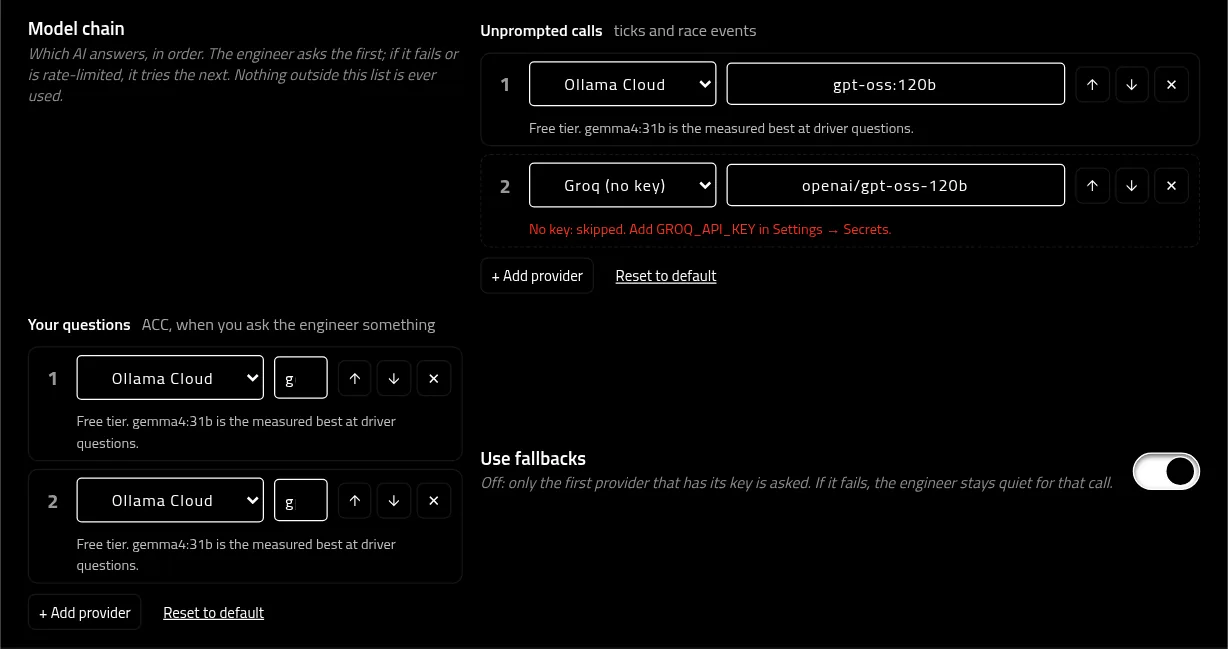
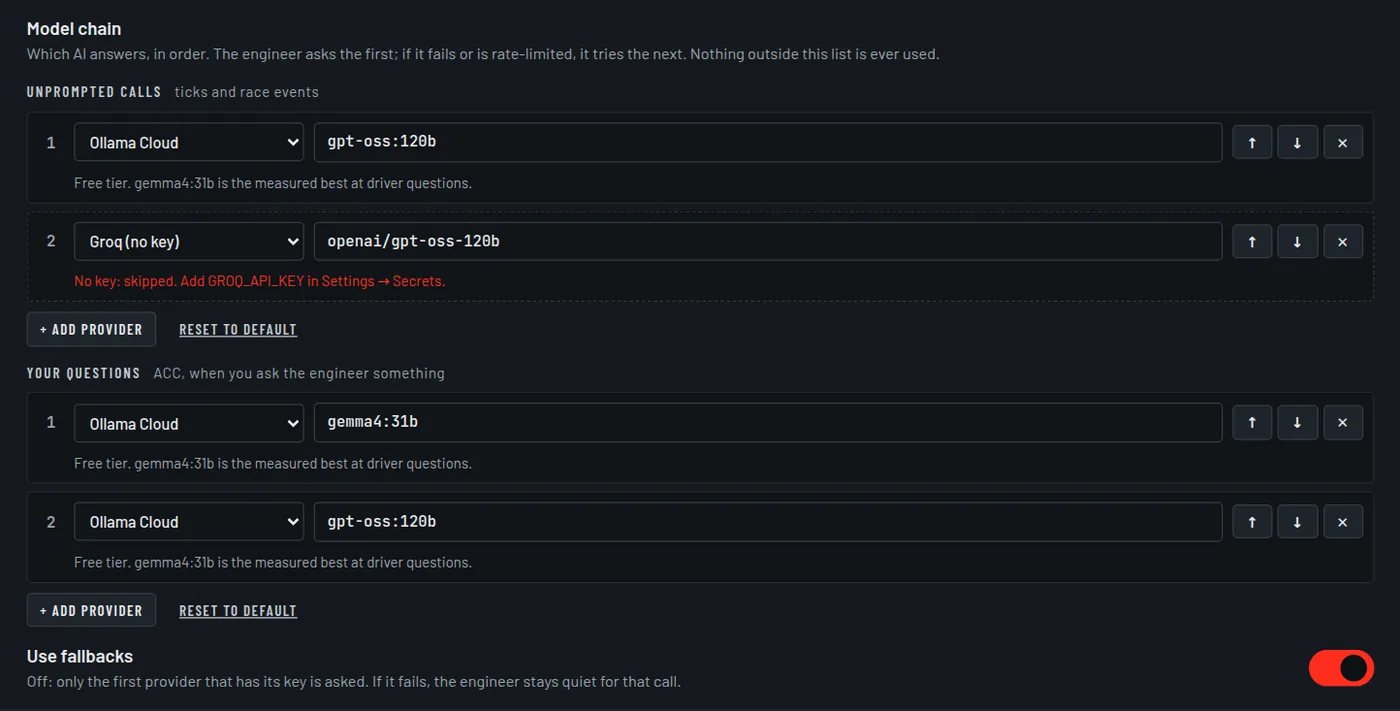
Docs: drop eyebrow labels; re-shoot the reskinned app
- No kicker above any h1, no numbers above card titles, pager reads
  '<- Basic setup' / 'Error codes ->' with no Previous/Next label.
- Shots re-taken from the Pit Wall reskin (claude/dazzling-shannon-5fm06w):
  the Live page, onboarding, the model chain (field no longer squeezed),
  Settings -> Telemetry as an F1 driver sees it (UDP 20778), and the
  AIR-202 notice now showing its code, fix and docs link.
- _shoot_app.py: one provider shot (the reskinned card needs no scroll),
  telemetry pane clipped to its rows, and the app's Google Fonts request
  served from this repo's fonts/ so a flaky network cannot put a
  fallback font into the docs.
- Text: notices show their code and link here; the 20777-label warning
  and the squeezed-field caption workaround are gone; Mute Mic is also on
  the Live page.

_verify_docs.py: 16 of 16.

Claude-Session: https://claude.ai/code/session_01H1YyBgjwyKrG5mb9QFTvpu

diff --git a/setup.html b/setup.html
@@ -77,7 +77,6 @@
   <main id="main">
   <article class="doc">
 
-  <p class="kicker">Getting started</p>
   <h1>Basic setup</h1>
   <p class="lead">Install the app, answer six questions, connect your game and drive. This page walks
   through each step.</p>
@@ -122,7 +121,7 @@ python desktop.py</code></pre></div>
     <li><strong>Which game?</strong> Assetto Corsa Competizione, F1 25 with the 2026 Season Pack format,
     or F1 25 with the classic 2025 format. Older F1 games are listed as unverified.</li>
     <li><strong>Connect a provider.</strong> Paste a key for at least one provider. Ollama Cloud and Groq
-    are shown first as the recommended combo; <strong>List more providers</strong> shows the rest.
+    are shown first, recommended to start; <strong>List more providers</strong> shows the rest.
     Then answer <strong>If your first provider fails</strong>: <em>Try the next one</em> or <em>Stay
     quiet</em>. The wizard shows the order it will save before you continue.</li>
     <li><strong>How should they talk?</strong> Talkativeness (only when it matters, balanced, keep me
@@ -134,12 +133,12 @@ python desktop.py</code></pre></div>
   </ol>
   <div class="shots">
     <figure>
-      <img src="img/onboarding-language.webp" width="800" height="480" loading="lazy"
+      <img src="img/onboarding-language.webp" width="800" height="463" loading="lazy"
         alt="Onboarding, Let's pick your language: a grid of the nine languages, English, Español, Italiano, Français, Deutsch, Português, Čeština, Polski and 日本語." />
       <figcaption>Step 1: the app language. Step 2 asks the same for the engineer.</figcaption>
     </figure>
     <figure>
-      <img src="img/onboarding-game.webp" width="800" height="910" loading="lazy"
+      <img src="img/onboarding-game.webp" width="800" height="898" loading="lazy"
         alt="Onboarding step 3 of 5, Which game: Assetto Corsa Competizione selected and marked supported, F1 25 / 26 and F1 25 2025 supported, F1 24, F1 23, F1 22 and F1 2021 marked unverified." />
       <figcaption>Step 3: the game. ACC, and F1 25 in either telemetry format.</figcaption>
     </figure>
@@ -147,20 +146,14 @@ python desktop.py</code></pre></div>
   <div class="shots">
     <figure>
       <img src="img/onboarding-providers.webp" width="800" height="1035" loading="lazy"
-        alt="Onboarding step 4 of 5, Connect a provider: the Recommended combo box holds Ollama Cloud, with a key pasted and masked, and Groq; OpenRouter and Anthropic below, a List more providers button, and the If your first provider fails question." />
-      <figcaption>Step 4: paste a key. It is masked on screen and saved only to your local
-      <code>.env</code>.</figcaption>
-    </figure>
-    <figure>
-      <img src="img/onboarding-fallback.webp" width="800" height="1035" loading="lazy"
-        alt="The same step scrolled down: If your first provider fails, with Try the next one selected, and the preview of what will be saved. Unprompted calls: Ollama Cloud gpt-oss:120b. Your questions: Ollama Cloud gemma4:31b, then Ollama Cloud gpt-oss:120b." />
-      <figcaption>The fallback question and the model chain it will save, for an Ollama Cloud key
-      alone.</figcaption>
+        alt="Onboarding step 4 of 5, Connect a provider: Ollama Cloud and Groq first, recommended to start, both with a free tier; an Ollama Cloud key pasted and masked; OpenRouter, Anthropic and List more providers below; If your first provider fails with Try the next one selected; and the chain it will save. Unprompted calls: Ollama Cloud gpt-oss:120b. Your questions: Ollama Cloud gemma4:31b, then Ollama Cloud gpt-oss:120b." />
+      <figcaption>Step 4 with an Ollama Cloud key. The key is masked on screen and saved only to your local
+      <code>.env</code>; below it, the fallback question and the chain the wizard will save.</figcaption>
     </figure>
   </div>
   <div class="shots">
     <figure>
-      <img src="img/onboarding-speech.webp" width="800" height="498" loading="lazy"
+      <img src="img/onboarding-speech.webp" width="800" height="478" loading="lazy"
         alt="Onboarding step 5 of 5, How should they talk: Talkativeness with Only when it matters, Balanced and Keep me talking; How often they check in with Now and then, Regularly and Frequently." />
       <figcaption>Step 5: how much the engineer talks.</figcaption>
     </figure>
@@ -220,18 +213,14 @@ python desktop.py</code></pre></div>
     <li>In the app, set <strong>Settings &rarr; Telemetry &rarr; UDP packet format</strong> to the same
     format as the game: <em>F1 25 (2026 Season Pack)</em> or <em>F1 25 (2025 classic)</em>. This applies
     without a restart.</li>
-    <li>Drive. The status bar at the bottom of the dashboard reads <strong>Telemetry &middot; Live</strong>
+    <li>Drive. The status bar at the bottom of the app reads <strong>Telemetry &middot; Live</strong>
     while packets arrive.</li>
   </ol>
-  <div class="callout warn">
-    <p class="callout-title">Port 20778</p>
-    <p>The app's listener uses UDP port <code>20778</code>, not the game's default 20777. The Telemetry
-    page in Settings may still show 20777; the listener uses 20778.</p>
-  </div>
   <figure>
-    <img src="img/settings-telemetry.webp" width="1230" height="1111" loading="lazy"
-      alt="Settings, Telemetry pane: the Sim dropdown set to Assetto Corsa Competizione, the UDP packet format dropdown for F1 games set to F1 25 (2026 Season Pack), and the Record sessions switch." />
-    <figcaption>Settings &rarr; Telemetry: the game, and the UDP packet format for F1.</figcaption>
+    <img src="img/settings-telemetry.webp" width="1400" height="511" loading="lazy"
+      alt="Settings, Telemetry pane: UDP port 20778, the Sim dropdown set to F1 25 / 26, the UDP packet format dropdown set to F1 25 (2026 Season Pack), and the Record sessions switch." />
+    <figcaption>Settings &rarr; Telemetry: the port the app listens on, the game, and the UDP packet format
+    for F1.</figcaption>
   </figure>
 
   <h2 id="voice">Talking to the engineer <a class="h-anchor" href="#voice" aria-label="Link to this section">#</a></h2>
@@ -251,7 +240,8 @@ python desktop.py</code></pre></div>
     Groq call fails, it uses Local.</li>
     <li><strong>Devices.</strong> <strong>Settings &rarr; Audio</strong> picks the microphone, the speaker
     and the voice volume, with a Test button.</li>
-    <li><strong>Mute and pause.</strong> <em>Mute Mic</em> and <em>Pause</em> are on the Home page.</li>
+    <li><strong>Mute and pause.</strong> <em>Mute Mic</em> is on the Home page and in the radio panel on
+    the Live page; <em>Pause</em> is on the Home page.</li>
   </ul>
 
   <h2 id="languages">Languages <a class="h-anchor" href="#languages" aria-label="Link to this section">#</a></h2>
@@ -267,13 +257,13 @@ python desktop.py</code></pre></div>
   <a href="errors.html#AIR-503">AIR-503</a>.</p>
   <figure class="phone">
     <img src="img/dashboard-phone.webp" width="780" height="1688" loading="lazy"
-      alt="The dashboard at phone width: speed 212 km/h, last lap 2:37.165, throttle, brake and steering bars, gear 5, and the start of the engineer chat." />
-    <figcaption>The same dashboard at phone width.</figcaption>
+      alt="The Live page at phone width: position P10, fuel 4.8 laps and marked short, speed 212 km/h, gear 5, last lap 2:37.165, sector 1, and throttle, brake and steering bars." />
+    <figcaption>The same Live page at phone width.</figcaption>
   </figure>
 
   <nav class="pager" aria-label="Previous and next page">
-    <a class="prev" href="./"><span class="d">Previous</span><span class="t">Overview</span></a>
-    <a class="next" href="ai.html"><span class="d">Next</span><span class="t">Choosing your AI</span></a>
+    <a class="prev" href="./" aria-label="Previous: Overview"><span class="t">&larr; Overview</span></a>
+    <a class="next" href="ai.html" aria-label="Next: Choosing your AI"><span class="t">Choosing your AI &rarr;</span></a>
   </nav>
   </article>
   </main>

diff --git a/index.html b/index.html
@@ -73,7 +73,6 @@
   <main id="main">
   <article class="doc">
 
-  <p class="kicker">Documentation</p>
   <h1>Your engineer is on the radio.</h1>
   <p class="lead">airaceGP is an AI race engineer for <strong>Assetto Corsa Competizione</strong>, with
   <strong>F1 25</strong> support. It reads your live telemetry, works out what matters right now and tells
@@ -124,22 +123,23 @@
 
   <h2 id="the-app">The app <a class="h-anchor" href="#the-app" aria-label="Link to this section">#</a></h2>
   <figure>
-    <img src="img/dashboard.webp" width="1600" height="1234" loading="lazy"
-      alt="The airaceGP dashboard during an ACC race: speed 212 km/h in gear 5, last lap 2:37.165, tyre core temperatures on wet tyres, the engineer's chat with a penalty call and a fuel answer, and the Engineer's read strip: serve the penalty, 1.8 laps short of fuel to the flag, a right-side impact." />
-    <figcaption>The dashboard. The chat on the right is the radio, the strip at the bottom is the app's own
-    read of the race. Analysis from a real ACC frame at Spa; speed and pedal values are demo numbers.</figcaption>
+    <img src="img/dashboard.webp" width="1600" height="1000" loading="lazy"
+      alt="The airaceGP Live page during an ACC race: position P10; fuel 4.8 laps, marked short; speed 212 km/h in gear 5, last lap 2:37.165; tyre temperatures and pressures on wet tyres; a damage flag for a right-side impact; the Engineer's read (serve the penalty, 1.8 laps short of fuel to the flag, right impact); and the radio chat with a penalty call and a fuel answer." />
+    <figcaption>The Live page. The Engineer's read at the top right is the app's own analysis; the radio
+    below it is what the engineer said and heard. Analysis from a real ACC frame at Spa; speed and pedal
+    values are demo numbers.</figcaption>
   </figure>
 
   <h2 id="next">Where next <a class="h-anchor" href="#next" aria-label="Link to this section">#</a></h2>
   <div class="cards">
-    <a class="card" href="setup.html"><span class="n">01</span><h3>Basic setup</h3><p>Install, the first-run wizard, connecting ACC or F1 25, and talking to the engineer.</p></a>
-    <a class="card" href="ai.html"><span class="n">02</span><h3>Choosing your AI</h3><p>The recommended free setup, the model chain, and every supported provider.</p></a>
-    <a class="card" href="errors.html"><span class="n">03</span><h3>Error codes</h3><p>Every AIR code the app reports, what it means and what to do.</p></a>
-    <a class="card" href="troubleshooting.html"><span class="n">04</span><h3>Troubleshooting</h3><p>A silent engineer, no telemetry, microphone trouble, and how to report a problem.</p></a>
+    <a class="card" href="setup.html"><h3>Basic setup</h3><p>Install, the first-run wizard, connecting ACC or F1 25, and talking to the engineer.</p></a>
+    <a class="card" href="ai.html"><h3>Choosing your AI</h3><p>The recommended free setup, the model chain, and every supported provider.</p></a>
+    <a class="card" href="errors.html"><h3>Error codes</h3><p>Every AIR code the app reports, what it means and what to do.</p></a>
+    <a class="card" href="troubleshooting.html"><h3>Troubleshooting</h3><p>A silent engineer, no telemetry, microphone trouble, and how to report a problem.</p></a>
   </div>
 
   <nav class="pager" aria-label="Previous and next page">
-    <a class="next" href="setup.html"><span class="d">Next</span><span class="t">Basic setup</span></a>
+    <a class="next" href="setup.html" aria-label="Next: Basic setup"><span class="t">Basic setup &rarr;</span></a>
   </nav>
   </article>
   </main>

diff --git a/troubleshooting.html b/troubleshooting.html
@@ -75,16 +75,15 @@
   <main id="main">
   <article class="doc">
 
-  <p class="kicker">Help</p>
   <h1>Troubleshooting</h1>
   <p class="lead">Most problems come with an AIR code on screen. Look it up in
   <a href="errors.html">Error codes</a> first; the answers below cover the rest.</p>
 
   <figure class="narrow">
-    <img src="img/health-notice.webp" width="523" height="150" loading="lazy"
-      alt="A dashboard notice from the AI engine: Ollama Cloud answered 429 (rate limit). Trying the next provider in your chain." />
-    <figcaption>A notice on the dashboard. This one is a rate limit,
-    <a href="errors.html#AIR-202">AIR-202</a>.</figcaption>
+    <img src="img/health-notice.webp" width="523" height="258" loading="lazy"
+      alt="A notice from the AI engine: Ollama Cloud answered 429 (rate limit). Trying the next provider in your chain. Below it the fix: wait, or add another provider to your model chain with Use fallbacks on. At the bottom a link reading AIR-202, docs." />
+    <figcaption>A notice in the app. Each one shows its AIR code and what to do, and the code links to its
+    entry on this site; this one is a rate limit, <a href="errors.html#AIR-202">AIR-202</a>.</figcaption>
   </figure>
 
   <h2 id="silent">The engineer is silent <a class="h-anchor" href="#silent" aria-label="Link to this section">#</a></h2>
@@ -124,7 +123,7 @@
   <h2 id="no-data">No telemetry <a class="h-anchor" href="#no-data" aria-label="Link to this section">#</a></h2>
   <div class="faq">
     <details>
-      <summary>ACC: the dashboard stays empty</summary>
+      <summary>ACC: the Live page stays empty</summary>
       <div class="a"><ul>
         <li>The game in <strong>Settings &rarr; Telemetry &rarr; Sim</strong> is Assetto Corsa Competizione, and the app was restarted after changing it.</li>
         <li>You are on track. ACC publishes nothing in the menus.</li>
@@ -228,7 +227,7 @@
   only, never a key). A code quoted exactly is the fastest way to a fix.</p>
 
   <nav class="pager" aria-label="Previous and next page">
-    <a class="prev" href="errors.html"><span class="d">Previous</span><span class="t">Error codes</span></a>
+    <a class="prev" href="errors.html" aria-label="Previous: Error codes"><span class="t">&larr; Error codes</span></a>
   </nav>
   </article>
   </main>

diff --git a/ai.html b/ai.html
@@ -74,7 +74,6 @@
   <main id="main">
   <article class="doc">
 
-  <p class="kicker">Your AI</p>
   <h1>Choosing your AI</h1>
   <p class="lead">The app computes the analysis; the model you choose turns it into words. You bring the
   key, and you decide which providers are asked and in what order.</p>
@@ -134,10 +133,9 @@
     <li>Nothing outside these lists is ever called.</li>
   </ul>
   <figure>
-    <img src="img/settings-model-chain.webp" width="1228" height="649" loading="lazy"
-      alt="Settings, AI, Model chain editor. Unprompted calls: 1 Ollama Cloud gpt-oss:120b, 2 Groq openai/gpt-oss-120b marked no key and skipped. Your questions: 1 and 2 Ollama Cloud. Each row has up, down and remove buttons, with Add provider and Reset to default below, and the Use fallbacks switch on." />
-    <figcaption>The chain editor. Here Groq has no key, so it is skipped until one is added. The
-    questions list holds <code>gemma4:31b</code> and then <code>gpt-oss:120b</code>.</figcaption>
+    <img src="img/settings-model-chain.webp" width="1400" height="711" loading="lazy"
+      alt="Settings, AI, Model chain editor. Unprompted calls: 1 Ollama Cloud gpt-oss:120b, 2 Groq openai/gpt-oss-120b marked no key and skipped. Your questions: 1 Ollama Cloud gemma4:31b, 2 Ollama Cloud gpt-oss:120b. Each row has up, down and remove buttons, with Add provider and Reset to default below each list, and the Use fallbacks switch on." />
+    <figcaption>The chain editor. Here Groq has no key, so it is skipped until one is added.</figcaption>
   </figure>
   <div class="callout note">
     <p class="callout-title">When the questions list applies</p>
@@ -190,8 +188,8 @@
   </ul>
 
   <nav class="pager" aria-label="Previous and next page">
-    <a class="prev" href="setup.html"><span class="d">Previous</span><span class="t">Basic setup</span></a>
-    <a class="next" href="errors.html"><span class="d">Next</span><span class="t">Error codes</span></a>
+    <a class="prev" href="setup.html" aria-label="Previous: Basic setup"><span class="t">&larr; Basic setup</span></a>
+    <a class="next" href="errors.html" aria-label="Next: Error codes"><span class="t">Error codes &rarr;</span></a>
   </nav>
   </article>
   </main>

diff --git a/assets/docs.css b/assets/docs.css
@@ -85,7 +85,6 @@ main{min-width:0;padding:40px var(--gutter) 88px}
 }
 
 /* ---------- type ---------- */
-.kicker{font:600 13px/1.2 var(--disp);letter-spacing:.2em;text-transform:uppercase;color:var(--red);margin-bottom:10px}
 h1{font:800 clamp(40px,6vw,64px)/.95 var(--disp);text-transform:uppercase;letter-spacing:.005em;color:#fff;margin-bottom:18px;overflow-wrap:anywhere}
 h2{font:700 clamp(28px,3.4vw,36px)/1.05 var(--disp);text-transform:uppercase;letter-spacing:.01em;color:#fff;margin:56px 0 14px;padding-top:22px;border-top:1px solid var(--line)}
 h3{font:700 22px/1.2 var(--disp);letter-spacing:.02em;color:#fff;margin:32px 0 8px}
@@ -154,8 +153,7 @@ td code{white-space:nowrap}
 .cards{display:grid;grid-template-columns:repeat(auto-fit,minmax(min(100%,230px),1fr));gap:1px;background:var(--line);border:1px solid var(--line);margin:8px 0 24px}
 .card{display:block;background:#000;padding:20px 20px 18px;text-decoration:none;color:var(--soft)}
 .card:hover{background:var(--panel)}
-.card .n{font:500 12px var(--mono);color:var(--red)}
-.card h3{margin:8px 0 6px;font-size:22px}
+.card h3{margin:0 0 6px;font-size:22px}
 .card p{font-size:15px;margin:0;color:var(--muted)}
 
 /* ---------- flow ---------- */
@@ -205,9 +203,8 @@ td code{white-space:nowrap}
 .foot a{color:var(--soft)}
 .foot .legal{flex-basis:100%;font-size:12.5px;line-height:1.55;max-width:90ch;color:#7d7d7d}
 .pager{display:flex;justify-content:space-between;gap:12px;flex-wrap:wrap;margin-top:56px;padding-top:20px;border-top:1px solid var(--line)}
-.pager a{display:flex;flex-direction:column;gap:4px;text-decoration:none;padding:12px 14px;border:1px solid var(--line);min-width:min(100%,220px);border-radius:3px}
+.pager a{display:flex;flex-direction:column;justify-content:center;gap:4px;text-decoration:none;padding:12px 14px;border:1px solid var(--line);min-width:min(100%,220px);border-radius:3px}
 .pager a:hover{border-color:var(--line-2);background:var(--panel)}
-.pager .d{font:600 12px/1 var(--disp);letter-spacing:.18em;text-transform:uppercase;color:var(--muted)}
 .pager .t{font:700 20px/1.1 var(--disp);color:#fff}
 .pager .next{margin-left:auto;text-align:right}
 

diff --git a/errors.html b/errors.html
@@ -79,10 +79,10 @@
   <main id="main">
   <article class="doc">
 
-  <p class="kicker">Reference</p>
   <h1>Error codes</h1>
-  <p class="lead">The app tags every problem it reports, in its notices and its API errors, with a code
-  like <code>AIR-201</code>. Find the code below for what it means and what to do.</p>
+  <p class="lead">Every problem the app reports carries a code like <code>AIR-201</code>. Each notice in
+  the app shows its code and what to do, and the code links straight to its entry on this page. API
+  error responses carry the same codes.</p>
   <p>There are <span id="code-count">32</span> codes. Each has its own address, for example
   <a href="errors.html#AIR-208"><code>docs.airacegp.com/errors#AIR-208</code></a>. Codes are permanent: a
   number is never reused for a different problem. Severity is <span class="lvl error">Error</span> when
@@ -561,8 +561,8 @@
   <!-- END GENERATED CODES -->
 
   <nav class="pager" aria-label="Previous and next page">
-    <a class="prev" href="ai.html"><span class="d">Previous</span><span class="t">Choosing your AI</span></a>
-    <a class="next" href="troubleshooting.html"><span class="d">Next</span><span class="t">Troubleshooting</span></a>
+    <a class="prev" href="ai.html" aria-label="Previous: Choosing your AI"><span class="t">&larr; Choosing your AI</span></a>
+    <a class="next" href="troubleshooting.html" aria-label="Next: Troubleshooting"><span class="t">Troubleshooting &rarr;</span></a>
   </nav>
   </article>
   </main>

diff --git a/404.html b/404.html
@@ -34,14 +34,13 @@
 </header>
 <main id="main" style="flex:1;max-width:1040px;margin:0 auto;width:100%">
   <article class="doc">
-    <p class="kicker">Error 404</p>
-    <h1>Off the racing line.</h1>
+    <h1>404: off the racing line.</h1>
     <p class="lead">That page is not in the docs. It may have moved, or the link has a typo.</p>
     <div class="cards">
-      <a class="card" href="/"><span class="n">00</span><h3>Overview</h3><p>What airaceGP is and how it works.</p></a>
-      <a class="card" href="/setup.html"><span class="n">01</span><h3>Basic setup</h3><p>Install, first run, connect your game.</p></a>
-      <a class="card" href="/ai.html"><span class="n">02</span><h3>Choosing your AI</h3><p>The recommended free setup and every provider.</p></a>
-      <a class="card" href="/errors.html"><span class="n">03</span><h3>Error codes</h3><p>Every AIR code, with a fix.</p></a>
+      <a class="card" href="/"><h3>Overview</h3><p>What airaceGP is and how it works.</p></a>
+      <a class="card" href="/setup.html"><h3>Basic setup</h3><p>Install, first run, connect your game.</p></a>
+      <a class="card" href="/ai.html"><h3>Choosing your AI</h3><p>The recommended free setup and every provider.</p></a>
+      <a class="card" href="/errors.html"><h3>Error codes</h3><p>Every AIR code, with a fix.</p></a>
     </div>
   </article>
 </main>

diff --git a/_shoot_app.py b/_shoot_app.py
@@ -103,6 +103,29 @@ def save(png: bytes, name: str, width: int | None = None):
     done.append(f'{name}.webp {im.width}x{im.height}')
 
 
+FONT_FILES = {('Barlow', 400): 'barlow-400', ('Barlow', 500): 'barlow-500', ('Barlow', 600): 'barlow-600',
+              ('Barlow Condensed', 500): 'barlow-condensed-500', ('Barlow Condensed', 600): 'barlow-condensed-600',
+              ('Barlow Condensed', 700): 'barlow-condensed-700', ('Barlow Condensed', 800): 'barlow-condensed-800'}
+
+
+def local_fonts(ctx):
+    """Serve the app's Google Fonts request from this repo's fonts/ (the
+    same OFL families): shots must not depend on a flaky network, or a
+    fallback font lands in the docs."""
+    fonts = ROOT / 'fonts'
+    if not fonts.exists():
+        return
+    css = ''.join(f'@font-face{{font-family:"{fam}";font-weight:{w};font-style:normal;'
+                  f'src:url(https://fonts.local/{f}.woff2) format("woff2")}}' for (fam, w), f in FONT_FILES.items())
+    css += ('@font-face{font-family:"JetBrains Mono";font-weight:400 800;font-style:normal;'
+            'src:url(https://fonts.local/jetbrains-mono.woff2) format("woff2")}')
+    ctx.route('https://fonts.googleapis.com/**',
+              lambda r: r.fulfill(status=200, content_type='text/css', body=css))
+    ctx.route('https://fonts.local/**', lambda r: r.fulfill(
+        status=200, content_type='font/woff2', headers={'Access-Control-Allow-Origin': '*'},
+        body=(fonts / r.request.url.rsplit('/', 1)[1]).read_bytes()))
+
+
 def shoot(label, fn):
     try:
         fn()
@@ -157,6 +180,7 @@ def main():
         browser = p.chromium.launch(**kw)
         ctx = browser.new_context(viewport={'width': 1440, 'height': 900}, device_scale_factor=1.25,
                                   ignore_https_errors=True, reduced_motion='reduce')
+        local_fonts(ctx)
         page = ctx.new_page()
         page.set_default_timeout(4000)
         page.set_default_navigation_timeout(30000)
@@ -196,11 +220,9 @@ def main():
             c.locator('input').fill(FAKE_KEY)
             page.locator('#onboard-fallback-next').click()
             page.evaluate("document.activeElement && document.activeElement.blur()")
+            # one shot: the reskinned card shows the keys, the fallback
+            # question and the chain preview without scrolling
             ob('onboarding-providers')
-            # the fallback question and the chain it will save sit below
-            page.evaluate("""() => { const b = document.querySelector('#onboard-overlay .onboard-body');
-                if (b) b.scrollTop = b.scrollHeight; }""")
-            ob('onboarding-fallback')
         shoot('onboarding providers + fallback', providers)
 
         def speech():
@@ -217,12 +239,7 @@ def main():
             page.click('.nav-btn[data-page="dashboard"]')
             page.wait_for_timeout(1500)
             guard(page, 'dashboard')
-            # tall enough for the analysis strip, without full_page (which
-            # would paint the fixed status bar over the middle of it)
-            page.set_viewport_size({'width': 1440, 'height': 1110})
-            page.wait_for_timeout(600)
             save(page.screenshot(), 'dashboard', 1600)
-            page.set_viewport_size({'width': 1440, 'height': 900})
         shoot('dashboard', dashboard)
 
         def model_chain():
@@ -238,11 +255,25 @@ def main():
         shoot('settings model chain', model_chain)
 
         def telemetry_pane():
+            # as an F1 driver sees it: the UDP format row only shows for F1
+            set_cfg(game='f1_25')
+            page.reload()
+            page.wait_for_timeout(1200)
+            page.click('.nav-btn[data-page="settings"]')
             page.click('.side-item[data-section="telemetry"]')
             page.wait_for_timeout(500)
             guard(page, 'telemetry settings')
-            save(page.locator('#pane-telemetry').screenshot(), 'settings-telemetry', 1400)
+            # clip to the rows: the pane itself runs on to the window bottom
+            box = page.evaluate("""() => { const p = document.querySelector('#pane-telemetry');
+                const r = p.getBoundingClientRect(); let bottom = r.top;
+                p.querySelectorAll('.pane-head, .setting-row').forEach(e => {
+                    if (e.offsetParent) bottom = Math.max(bottom, e.getBoundingClientRect().bottom); });
+                return {x: r.left, y: r.top, width: r.width, height: bottom - r.top + 12}; }""")
+            save(page.screenshot(clip=box), 'settings-telemetry', 1400)
         shoot('settings telemetry', telemetry_pane)
+        set_cfg(game='acc')
+        page.reload()
+        page.wait_for_timeout(1200)
 
         def notice():
             import errors as app_errors
@@ -269,6 +300,7 @@ def main():
         def phone():
             m = browser.new_context(viewport={'width': 390, 'height': 844}, device_scale_factor=2,
                                     ignore_https_errors=True, reduced_motion='reduce')
+            local_fonts(m)
             pg = m.new_page()
             pg.set_default_navigation_timeout(30000)
             pg.goto(base + '/')
